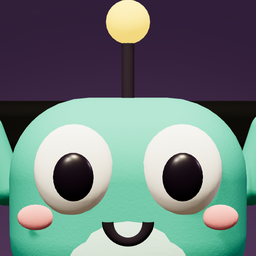
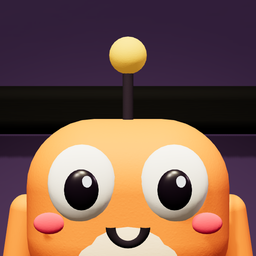
Orange Byte, teal Pip, bloom + synthwave horizon + rim light, catchlights, voice realism chain (blends, room FX, audio_file lines)
Claude-Session: https://claude.ai/code/session_01YPu5EHL9c55tQNDF3yssoU

diff --git a/engine/reel/main.js b/engine/reel/main.js
@@ -13,6 +13,12 @@ renderer.outputColorSpace = THREE.SRGBColorSpace;
 const scene = new THREE.Scene();
 const camera = new THREE.PerspectiveCamera(38, W / H, 0.1, 200);
 
+import { EffectComposer } from 'three/addons/postprocessing/EffectComposer.js';
+import { RenderPass } from 'three/addons/postprocessing/RenderPass.js';
+import { UnrealBloomPass } from 'three/addons/postprocessing/UnrealBloomPass.js';
+import { OutputPass } from 'three/addons/postprocessing/OutputPass.js';
+const useBloom = T.style === 'duet' || T.bloom; let composer = null;
+if (useBloom) { composer = new EffectComposer(renderer); composer.setPixelRatio(renderer.getPixelRatio()); composer.setSize(W, H); composer.addPass(new RenderPass(scene, camera)); composer.addPass(new UnrealBloomPass(new THREE.Vector2(W / 2, H / 2), .5, .5, .86)); composer.addPass(new OutputPass()); }
 // ---------- utils ----------
 let seed = (T.seed || 7) | 0; const rnd = () => { seed = (seed * 16807) % 2147483647; return (seed - 1) / 2147483646; };
 const R = (a, b) => a + (b - a) * rnd();
@@ -51,6 +57,7 @@ key.shadow.mapSize.set(2048, 2048); key.shadow.radius = 6; key.shadow.bias = -0.
 Object.assign(key.shadow.camera, { left: -9, right: 9, top: 11, bottom: -6, near: .5, far: 60 });
 scene.add(key, key.target);
 const rim = new THREE.DirectionalLight('#ffd9f0', .6); scene.add(rim, rim.target);
+const rim2 = new THREE.DirectionalLight('#5fd8ff', 0); scene.add(rim2, rim2.target);
 const spot = new THREE.SpotLight('#fff1c9', 0, 30, .38, .6, 1); spot.castShadow = false; scene.add(spot, spot.target);
 const ground = mesh(new THREE.PlaneGeometry(600, 80), clay('#EADCC4'), 0, 0, 0); ground.rotation.x = -Math.PI / 2; ground.castShadow = false;
 
@@ -190,12 +197,15 @@ SETS.night = (() => {
   const bg = new THREE.Mesh(new THREE.PlaneGeometry(90, 46), new THREE.MeshBasicMaterial({ map: bgT, fog: false })); bg.position.set(X, 18, -16); scene.add(bg);
   const gT = textTex(256, 256, (g, w, h) => { g.fillStyle = '#0d1046'; g.fillRect(0, 0, w, h); g.strokeStyle = NP_.grid || '#4b4fd6'; g.lineWidth = 5; g.globalAlpha = .9; g.strokeRect(0, 0, w, h); g.globalAlpha = .25; g.lineWidth = 14; g.strokeRect(0, 0, w, h); });
   gT.wrapS = gT.wrapT = THREE.RepeatWrapping; gT.repeat.set(40, 30);
-  const fl = new THREE.Mesh(new THREE.PlaneGeometry(80, 60), new THREE.MeshStandardMaterial({ map: gT, emissive: '#ffffff', emissiveMap: gT, emissiveIntensity: .35, roughness: .55, metalness: .1 })); fl.rotation.x = -Math.PI / 2; fl.position.set(X, .012, 7); fl.receiveShadow = true; scene.add(fl);
+  const fl = new THREE.Mesh(new THREE.PlaneGeometry(80, 60), new THREE.MeshStandardMaterial({ map: gT, emissive: '#ffffff', emissiveMap: gT, emissiveIntensity: .45, roughness: .7, metalness: 0 })); fl.rotation.x = -Math.PI / 2; fl.position.set(X, .012, 7); fl.receiveShadow = true; scene.add(fl);
   const bT = textTex(128, 128, (g, w, h) => { const gr = g.createRadialGradient(64, 64, 0, 64, 64, 64); gr.addColorStop(0, 'rgba(255,255,255,1)'); gr.addColorStop(.35, 'rgba(255,255,255,.55)'); gr.addColorStop(1, 'rgba(255,255,255,0)'); g.fillStyle = gr; g.fillRect(0, 0, w, h); });
   const BC = ['#ff6b9a', '#ffd27a', '#7aa8ff', '#b98bff', '#6fe3d0', '#ff9a6b'];
   const bokeh = []; for (let i = 0; i < 90; i++) { const m = new THREE.SpriteMaterial({ map: bT, color: BC[i % BC.length], transparent: true, opacity: R(.18, .6), depthWrite: false, fog: false, blending: THREE.AdditiveBlending }); const sp = new THREE.Sprite(m); const z = R(-15, -5); sp.position.set(X + R(-16, 16), R(.5, 16), z); sp.scale.setScalar(R(.25, 1.4) * (1 + (-z - 5) * .08)); scene.add(sp); bokeh.push({ sp, o: m.opacity, ph: R(0, 6.28), y: sp.position.y }); }
+  const hT = textTex(8, 256, (g, w, h) => { const gr = g.createLinearGradient(0, 0, 0, h); gr.addColorStop(0, 'rgba(255,90,200,0)'); gr.addColorStop(.7, 'rgba(255,90,200,.42)'); gr.addColorStop(.92, 'rgba(120,200,255,.75)'); gr.addColorStop(1, 'rgba(120,200,255,0)'); g.fillStyle = gr; g.fillRect(0, 0, w, h); });
+  const hz = new THREE.Mesh(new THREE.PlaneGeometry(90, 7), new THREE.MeshBasicMaterial({ map: hT, transparent: true, depthWrite: false, fog: false, blending: THREE.AdditiveBlending })); hz.position.set(X, 2.6, -15.8); scene.add(hz);
+  const dust = []; for (let i = 0; i < 26; i++) { const m = new THREE.SpriteMaterial({ map: bT, color: '#ffe9c4', transparent: true, opacity: R(.15, .4), depthWrite: false, blending: THREE.AdditiveBlending }); const sp = new THREE.Sprite(m); sp.position.set(X + R(-4, 4), R(.3, 5), R(1.5, 6)); sp.scale.setScalar(R(.04, .1)); scene.add(sp); dust.push({ sp, y: sp.position.y, ph: R(0, 6.28) }); }
   const pos = { byte: [X + 1.3, 0, .9, -.45], pip: [X - 1.0, 0, .6, .38] };
-  return { X, night: true, bokeh, pip: pos.pip, slot: new THREE.Vector3(X, 3, 1), top: new THREE.Vector3(X, 5, 0), focusY: 2,
+  return { X, night: true, bokeh, dust, pip: pos.pip, slot: new THREE.Vector3(X, 3, 1), top: new THREE.Vector3(X, 5, 0), focusY: 2,
     cams: { wide: [[X, 3.4, 15.5], [X, 3.1, 14], [X, 1.9, 0]], two: [[X + .1, 2.7, 12], [X + .2, 2.55, 11], [X + .2, 1.5, .6]],
       pip: [[X - .45, 2.75, 7.0], [X - .55, 2.7, 6.2], [X - .95, 2.05, .6]], byte: [[X + .75, 1.5, 6.4], [X + .85, 1.45, 5.6], [X + 1.25, .85, .9]],
       low: [[X + 2.6, .7, 9.5], [X + 1.9, .9, 8.6], [X, 2.1, 0]], side: [[X - 2.7, 3.7, 4.6], [X - 2.4, 3.5, 4.0], [X + 1.2, 1.1, .9]], close: [[X + .1, 2.3, 8.8], [X + .15, 2.2, 8.0], [X + .15, 1.45, .7]] },
@@ -204,7 +214,7 @@ SETS.night = (() => {
 
 // ---------- Pip: original clay creator character (duet reels) ----------
 function makePip() {
-  const C = Object.assign({ hoodie: COL.coral, skin: '#E9B48C', hat: COL.lilac, pants: '#33305E' }, P.pip || {});
+  const C = Object.assign({ hoodie: '#2FB59B', skin: '#EBB58D', hat: '#B6A2E3', pants: '#2E2B57' }, P.pip || {});
   const root = new THREE.Group(); scene.add(root); const body = new THREE.Group(); root.add(body);
   const hood = clay(C.hoodie), skin = clay(C.skin), dark = new THREE.MeshStandardMaterial({ color: '#1d1424', roughness: .35 });
   const legs = [-1, 1].map(s => { const l = mesh(new THREE.CapsuleGeometry(.17, .42, 4, 10), clay(C.pants), s * .25, .5, 0, root); mesh(RB(.36, .2, .52, .09), clay('#F6EBD3'), s * .25, .1, .07, root); return l; });
@@ -221,11 +231,13 @@ function makePip() {
   for (const s of [-1, 1]) {
     const e = mesh(new THREE.SphereGeometry(.17, 20, 14), clay('#FFFFFF'), s * .28, .7, .53, head); e.scale.set(.9, 1.1, .5); eyes.push(e);
     const p = mesh(new THREE.SphereGeometry(.085, 14, 10), dark, s * .28, .69, .61, head); p.scale.set(1, 1.15, .5); pupils.push(p);
+    mesh(new THREE.SphereGeometry(.026, 10, 8), new THREE.MeshBasicMaterial({ color: '#ffffff' }), .03, .035, .07, p);
     const b = new THREE.Group(); b.position.set(s * .28, .93, .55); head.add(b); const bm = mesh(new THREE.CapsuleGeometry(.045, .2, 3, 8), clay('#3B2A22'), 0, 0, 0, b); bm.rotation.z = Math.PI / 2; brows.push(b);
     mesh(new THREE.SphereGeometry(.1, 12, 10), clay(COL.pink), s * .45, .45, .52, head).scale.set(1, .65, .3);
   }
-  const mouthO = mesh(new THREE.SphereGeometry(.16, 18, 12), new THREE.MeshStandardMaterial({ color: '#4a1a2c', roughness: .4 }), 0, .41, .57, head); mouthO.scale.set(1, .25, .35);
-  const smile = mesh(new THREE.TorusGeometry(.11, .03, 8, 20, Math.PI), dark, 0, .46, .575, head);
+  mesh(new THREE.SphereGeometry(.09, 14, 10), clay('#E09A72'), 0, .56, .6, head).scale.set(1.1, .8, .7);
+  const mouthO = mesh(new THREE.SphereGeometry(.16, 18, 12), new THREE.MeshStandardMaterial({ color: '#6a2238', roughness: .4 }), 0, .36, .55, head); mouthO.scale.set(1, .25, .35);
+  const smile = mesh(new THREE.TorusGeometry(.11, .03, 8, 20, Math.PI), dark, 0, .42, .565, head);
   const arms = [-1, 1].map(s => { const pv = new THREE.Group(); pv.position.set(s * .7, 1.68, 0); body.add(pv); mesh(new THREE.CapsuleGeometry(.14, .5, 4, 10), hood, 0, -.34, 0, pv); mesh(new THREE.SphereGeometry(.15, 14, 10), skin, 0, -.72, 0, pv); return pv; });
   const lap = new THREE.Group(); lap.position.set(0, 1.25, .75); body.add(lap); lap.visible = false;
   mesh(RB(1.1, .06, .75, .03), clay('#B9B3C2'), 0, 0, 0, lap); const ls = mesh(RB(1.1, .72, .05, .03), clay('#B9B3C2'), 0, .36, -.36, lap); ls.rotation.x = -.25;
@@ -305,16 +317,18 @@ function buildBelt(items) {
 }
 
 // ---------- mascot ----------
+const BYTEC = Object.assign({ body: '#FF7A2F', belly: '#FFE0C2', feet: '#D9561C', cheek: '#FF4F6E' }, T.byteColor || {});
 function makeByte() {
   const root = new THREE.Group(); const body = new THREE.Group(); root.add(body); scene.add(root);
-  const tealM = clay(COL.teal);
+  const tealM = clay(BYTEC.body, { roughness: .7 });
   mesh(RB(1.5, 1.35, 1.2, .5, 5), tealM, 0, .95, 0, body);
-  const belly = mesh(new THREE.SphereGeometry(.42, 24, 16), clay('#BFEDE3'), 0, .7, .5, body); belly.scale.set(1.1, .8, .3);
+  const belly = mesh(new THREE.SphereGeometry(.42, 24, 16), clay(BYTEC.belly), 0, .7, .5, body); belly.scale.set(1.1, .8, .3);
   const eyes = [], pupils = [];
   for (const s of [-1, 1]) {
     const e = mesh(new THREE.SphereGeometry(.24, 24, 16), clay('#FFFFFF', { bumpScale: .3 }), s * .32, 1.2, .55, body); e.scale.set(1, 1.15, .55); eyes.push(e);
     const p = mesh(new THREE.SphereGeometry(.12, 20, 14), new THREE.MeshStandardMaterial({ color: '#1d1424', roughness: .3 }), s * .32, 1.17, .66, body); p.scale.set(1, 1.2, .5); pupils.push(p);
-    mesh(new THREE.SphereGeometry(.11, 16, 12), clay(COL.pink), s * .55, .92, .55, body).scale.set(1, .7, .3);
+    mesh(new THREE.SphereGeometry(.11, 16, 12), clay(BYTEC.cheek), s * .55, .92, .55, body).scale.set(1, .7, .3);
+    mesh(new THREE.SphereGeometry(.035, 10, 8), new THREE.MeshBasicMaterial({ color: '#ffffff' }), .04, .05, .1, p);
   }
   const lids = [-1, 1].map(s => { const l = mesh(new THREE.SphereGeometry(.255, 24, 16, 0, Math.PI * 2, 0, Math.PI / 2), tealM, s * .32, 1.2, .55, body); l.scale.set(1.05, 1.2, .6); return l; });
   const mouth = mesh(new THREE.TorusGeometry(.12, .035, 8, 20, Math.PI), new THREE.MeshStandardMaterial({ color: '#1d1424' }), 0, .9, .6, body);
@@ -322,7 +336,7 @@ function makeByte() {
   mesh(new THREE.CylinderGeometry(.04, .04, .45, 8), clay('#2A1F33'), 0, 1.82, 0, body);
   const antBall = mesh(new THREE.SphereGeometry(.14, 16, 12), clay(COL.mustard, { emissive: COL.mustard, emissiveIntensity: .25 }), 0, 2.08, 0, body);
   const arms = [-1, 1].map(s => { const pv = new THREE.Group(); pv.position.set(s * .76, 1.0, 0); body.add(pv); mesh(new THREE.CapsuleGeometry(.12, .38, 4, 10), tealM, 0, -.25, 0, pv); return pv; });
-  [-1, 1].forEach(s => { const f = mesh(new THREE.CapsuleGeometry(.15, .22, 4, 10), clay('#2C8F80'), s * .35, .12, .15, root); f.rotation.x = Math.PI / 2; });
+  [-1, 1].forEach(s => { const f = mesh(new THREE.CapsuleGeometry(.15, .22, 4, 10), clay(BYTEC.feet), s * .35, .12, .15, root); f.rotation.x = Math.PI / 2; });
   return { root, body, pupils, lids, mouth, mouthO, arms, antBall };
 }
 const byte = makeByte();
@@ -482,8 +496,10 @@ window.renderAt = function (t) {
   camera.lookAt(l[0], l[1], l[2]);
   // mood lighting: night set is cool, dim and foggy
   if (S.night) { hemi.color.set('#9fb4ff'); hemi.groundColor.set('#1a1650'); hemi.intensity = .55; key.color.set('#e3e8ff'); key.intensity = 1.7; rim.color.set('#b28bff'); rim.intensity = 1.6; scene.fog = scene.fog || new THREE.Fog('#0b0f38', 16, 46); renderer.toneMappingExposure = 1.12;
-    S.bokeh.forEach((b, i) => { b.sp.material.opacity = b.o * (.65 + .35 * Math.sin(t * 1.2 + b.ph)); b.sp.position.y = b.y + Math.sin(t * .3 + b.ph) * .25; }); }
-  else { hemi.color.set('#fff4e6'); hemi.groundColor.set('#c9a98a'); hemi.intensity = .75; key.color.set('#fff1dc'); key.intensity = 2.1; rim.color.set('#ffd9f0'); rim.intensity = .6; scene.fog = null; renderer.toneMappingExposure = 1.05; }
+    S.bokeh.forEach((b, i) => { b.sp.material.opacity = b.o * (.65 + .35 * Math.sin(t * 1.2 + b.ph)); b.sp.position.y = b.y + Math.sin(t * .3 + b.ph) * .25; });
+    S.dust.forEach(d => { d.sp.position.y = d.y + Math.sin(t * .5 + d.ph) * .3; d.sp.position.x += Math.sin(t * .2 + d.ph) * .002; });
+    rim.position.set(S.X - 7, 6, -6); rim2.position.set(S.X + 8, 5, -5); rim2.target.position.set(S.X, 1.5, 1); rim2.intensity = 1.8; }
+  else { rim2.intensity = 0; hemi.color.set('#fff4e6'); hemi.groundColor.set('#c9a98a'); hemi.intensity = .75; key.color.set('#fff1dc'); key.intensity = 2.1; rim.color.set('#ffd9f0'); rim.intensity = .6; scene.fog = null; renderer.toneMappingExposure = 1.05; }
   key.position.set(S.X - 6, 14, 10); key.target.position.set(S.X, 1.5, 0); rim.position.set(S.X + 8, 6, -2); rim.target.position.set(S.X, 2, 0);
   spot.intensity = B.set === 'stage' ? 60 : 0; spot.position.set(S.X, 12, 6); spot.target.position.set(S.X, 1, 1);
   // mascot
@@ -508,7 +524,7 @@ window.renderAt = function (t) {
   setCaps(B.words, t, T.highlight);
   grain.style.backgroundPosition = `${(t * 997) % 256 | 0}px ${(t * 613) % 256 | 0}px`;
   if (T.still) { bannerEl.style.opacity = 0; capsEl.innerHTML = ''; ovl.innerHTML = ''; document.getElementById('brand').style.opacity = 0; grain.style.opacity = 0; }
-  renderer.render(scene, camera);
+  if (composer) composer.render(); else renderer.render(scene, camera);
   return true;
 };
 window.READY = Promise.resolve(true);

diff --git a/engine/reel/index.html b/engine/reel/index.html
@@ -88,7 +88,7 @@ canvas{display:block;width:720px;height:1280px}
 .send p{margin:16px 4px 0;font:700 26px/1.25 Brico;color:#5b4f66}
 #dim{background:rgba(28,18,40,0)}
 .cbox{position:absolute;left:60px;right:60px;top:610px;background:#FFF6E3;border-radius:60px;height:104px;display:flex;align-items:center;padding:0 22px;box-shadow:0 10px 0 rgba(0,0,0,.25);font:600 40px Brico;color:#2A1F33}
-.cbox .av{width:62px;height:62px;border-radius:50%;background:#36B5A0;margin-right:20px;flex:none;position:relative}
+.cbox .av{width:62px;height:62px;border-radius:50%;background:#FF7A2F;margin-right:20px;flex:none;position:relative}
 .cbox .av:before,.cbox .av:after{content:"";position:absolute;top:22px;width:12px;height:16px;background:#1d1424;border-radius:6px}
 .cbox .av:before{left:17px}.cbox .av:after{right:17px}
 .cbox .ph{color:#9a8ea3}.cbox .cur{display:inline-block;width:4px;height:44px;background:#E8664A;margin-left:4px;vertical-align:-8px}

diff --git a/engine/reel/build_reel.py b/engine/reel/build_reel.py
@@ -19,15 +19,36 @@ def ensure_models():
             print("downloading", f, flush=True)
             subprocess.run(["curl", "-sSL", "-o", p, base + f], check=True)
 
+VOICE_FX = {  # light "recorded in a room" chain: rumble cut, warmth, presence, gentle compression, tiny room
+    "default": "highpass=f=75,equalizer=f=180:t=q:w=1:g=1.5,equalizer=f=3200:t=q:w=1.2:g=2,acompressor=threshold=-21dB:ratio=2.5:attack=6:release=80:makeup=2,aecho=0.85:0.6:23|41:0.07|0.04",
+    "byte": "highpass=f=90,equalizer=f=250:t=q:w=1:g=-1,equalizer=f=4200:t=q:w=1.2:g=2.5,acompressor=threshold=-21dB:ratio=2.5:attack=6:release=80:makeup=2,aecho=0.85:0.6:19|33:0.06|0.03",
+}
+
+def _voice(k, spec):
+    """'af_heart' or a blend like 'am_michael:0.6+am_fenrir:0.4'"""
+    if "+" not in spec and ":" not in spec: return spec
+    parts = [(p.split(":")[0], float(p.split(":")[1]) if ":" in p else 1.0) for p in spec.split("+")]
+    tot = sum(w for _, w in parts)
+    return sum(k.get_voice_style(n) * (w / tot) for n, w in parts).astype(np.float32)
+
 def tts(script, work):
     from kokoro_onnx import Kokoro
     k = Kokoro(os.path.join(MODELS, "kokoro.onnx"), os.path.join(MODELS, "voices.bin"))
     voice = script.get("voice", "am_puck"); speed = float(script.get("speed", 1.12))
     voices = script.get("voices", {})
+    fx_on = script.get("voice_fx", script.get("style") == "duet")
     for i, b in enumerate(script["beats"]):
-        v = b.get("voice") or voices.get(b.get("who", "")) or voice
-        s, sr = k.create(b["vo"], voice=v, speed=float(b.get("speed", speed)), lang="en-us")
-        sf.write(f"{work}/b{i}.wav", s, sr)
+        out = f"{work}/b{i}.wav"
+        if b.get("audio_file"):  # pre-generated line (e.g. ElevenLabs via Higgsfield)
+            subprocess.run(["ffmpeg", "-v", "error", "-y", "-i", b["audio_file"], "-ac", "1", "-ar", "24000", out], check=True)
+        else:
+            v = b.get("voice") or voices.get(b.get("who", "")) or voice
+            a, sr = k.create(b["vo"], voice=_voice(k, v), speed=float(b.get("speed", speed)), lang="en-us", sentence_pause=0.32, clause_pause=0.14)
+            sf.write(out, a, sr)
+        if fx_on:
+            fx = VOICE_FX.get(b.get("who", ""), VOICE_FX["default"])
+            subprocess.run(["ffmpeg", "-v", "error", "-y", "-i", out, "-af", fx + ",apad=pad_dur=0.05", f"{work}/fx.wav"], check=True)
+            shutil.move(f"{work}/fx.wav", out)
 
 def timing(script, work):
     t = 0.0; beats = []

diff --git a/SPEC.md b/SPEC.md
@@ -1,6 +1,6 @@
 # ClayByte Autopilot — content spec
 
-Instagram page: **ClayByte**. Niche: **AI + creator/agency life**, English only, soft clay/toy 3D look, mascot **Byte** (teal clay blob with antenna). Global audience, Indian founder.
+Instagram page: **ClayByte**. Niche: **AI + creator/agency life**, English only, soft clay/toy 3D look, mascot **Byte** (orange clay blob with antenna; was teal until 2026-10-31). Global audience, Indian founder.
 
 Daily output (for the NEXT day, IST):
 | Slot | Kind | Time (IST) |
@@ -71,7 +71,7 @@ Rules of thumb:
 
 ## Duet reels (two-character story format) — preferred for at least one reel a day
 Modelled on a high-performing reference (analysed 2026-10-31): a struggling creator talks to an AI sidekick; pain → proof → "show me" → numbered steps → objection → payoff → CTA.
-Characters: **Pip** (original clay creator: coral hoodie, lilac beanie) and **Byte** (the AI helper). Set: `night` (navy void, bokeh, neon grid floor).
+Characters: **Pip** (original clay creator: teal hoodie, lilac beanie) and **Byte** (the AI helper). Set: `night` (navy void, bokeh, neon grid floor).
 ```json
 {"id":"…","style":"duet","caps":"bold","banner_style":"chip","voices":{"pip":"am_puck","byte":"af_heart"},"speed":1.12,"seed":2,
  "highlight":["six","IDEA"],"sets":{"night":{}},
@@ -79,6 +79,7 @@ Characters: **Pip** (original clay creator: coral hoodie, lilac beanie) and **By
            "overlay":{"type":"pill","label":"YOUR LAST REEL","from":6,"to":6,"suffix":" views"}},
           {"who":"byte","set":"night","cam":"byte","banner":"STEP 1 · *PASTE*","step":[1,3],"vo":"…","mascot":{"action":"point"}}]}
 ```
+- Voices: kokoro blends allowed ("am_michael:0.6+am_fenrir:0.4"); duet reels get a room/EQ/compression chain automatically. Write lines the way people talk: "Wait…", "Okay…", "Oof.", short sentences, question marks; set per-beat "speed" (0.95–1.1) for emotion. A beat can use a pre-made line with "audio_file" (e.g. ElevenLabs via Higgsfield once its CDN is reachable).
 - One line per beat (3–12 words), `who` = speaker (lip-synced from the audio). Alternate speakers; 12–16 beats, 35–50 s.
 - Cams on `night`: `pip` / `byte` (face close-ups for emotion), `two` (both, medium), `wide`, `close` (medium centre), `side` (over Pip's shoulder), `low`. Change cam every beat; use face close-ups for reactions.
 - Pip actions: talk (default when speaking), listen (default otherwise), sad, shock, think, point, wave, celebrate, facepalm, type (holds a laptop).

diff --git a/LEARNINGS.md b/LEARNINGS.md
@@ -17,6 +17,8 @@ Research sources are in `research/<DATE>.md`. Stats below are second-hand from v
 - Soft CTA: use the `send` overlay ("Send this to … the friend who …") instead of a sparse card. Result-first hooks: `beforeafter` overlay with `flip` ≈ 1.5 s.
 - Stills gotcha: build_reel reuses existing stills files; delete `<out>/<id>_work/stills` before re-rendering stills.
 - DUET FORMAT (from a reference reel the owner shared, 2026-10-31): two characters talking (creator + AI helper), dark navy set with bokeh, face close-ups with a punch-in on every line, 2–3-word bold captions, a chapter chip with step dashes, and live UI widgets (views pill counting up, big counters with bars, stamps, terminal typing). Structure: specific-time pain hook ("3:12 AM… 6 views") → proof → "show me how" → 3–5 steps → cost objection → payoff → CTA. Use it for at least one reel a day; see SPEC "Duet reels".
+- 2026-10-31 owner feedback on the first duet: wants more realistic voices, more appealing visuals, and Byte in ORANGE (done: brand mascot is now orange, Pip wears teal). Visual upgrades that worked: bloom, a pink/cyan synthwave horizon glow, cyan back-rim light, eye catchlights, a nose on Pip so the mouth reads. Keep the floor matte; a glossy floor caused a white glare in the side cam.
+- Voice: kokoro's male voices are weak (C+), af_heart is the best. Pip uses a blend "am_michael:0.6+am_fenrir:0.4" plus the room chain. Best fix is ElevenLabs via Higgsfield (≈0.15 credits/line), blocked until cdn.higgsfield.ai and d1xarpci4ikg0w.cloudfront.net are on the allowed-domains list.
 - Recurring formats build habit: consider a named series ("Byte fixes your…", "60-second Claude skill").
 
 ### Carousels
